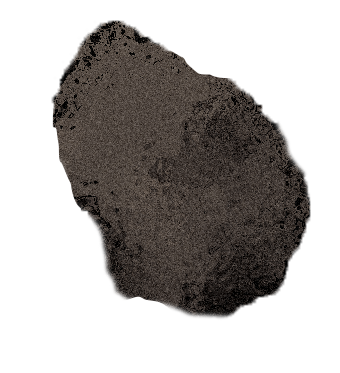
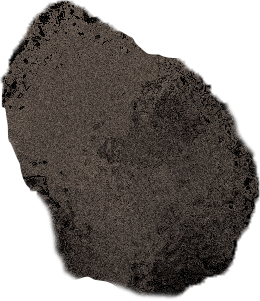
make moss responsive

diff --git a/index.html b/index.html
@@ -18,7 +18,8 @@
     </div>
 
     <div id="about"><span style="margin-left:0px">underground paratext</span><br><br>
-        this site was lovingly handcoded with basic javascript and uses spencer chang's play.html library.
+        this site was lovingly handcoded with basic javascript and uses spencer chang's <a href=''
+            target="_blank">play.html library</a>.
         this is placeholder! kRaYtAhaNy is a symbiotic lichenous species comprised of two poetry friends whose
         collaborative ponderings are infected with the spore-like and sporadic fruiting bodies: mycelial poetics and
         subterranean imaginations which nurture into being webthings, zinethings, and text objects. this is placeholder!
@@ -54,7 +55,7 @@
     let multiplier = 2.9;
 
     // IMAGES AND TEXT
-    let mosses = ["1.png", "2.png", "3.png", "4.png", "5.png", "6.png", "7.png", "8.png", "9.png", "10.png", "11.png", "12.png", "13.png", "14.png", "15.png", "16.png"];
+    let mosses = ["1.png", "2.png", "3.png", "4.png", "5.png", "6.png", "7.png", "8.png", "9.png", "10.png", "11.png", "12.png"];
     let text = `another world there seeping to partake in this here our sediment at times unknowingly there against my outer layers sensorializing the presumed edge my proprioception unquestions to maintain a semblance of know-how in the midst of, well, it all but maybe it smooths out any wrinkles without me even knowing or seeing loneliness with no exact locus, isn’t absence either, some kind of insistence on knowing something else. anyway. The author of milkweed is milkweed, the writer of the pink flower. the soil an inkwell HTML is pronounced hache tee em elle, do not say hittamel hittite clay dictionary how did we get here i’d like to reboot not to update close all windows, choose not to save. file  open  remember this? without a visible marker of distance, this text extends, smoothing over perhaps it’s sporadicity. spore seeds stars diatribing their light across the distance, beautiful, bliss-ridden. meanwhile, a diatom and plankton becoming friends oooh the heart a storm. friends around each with a weight weighing. how to be in some small measure an upward force alongside their straining. adore the typo as an invitation. oh and yes i abhor it when it disrupts my ghosted sheen of rightness a desire for wrongness until it’s, well, here.`;
     let words = text.split(' ');
 
@@ -187,12 +188,17 @@
         let d = Math.floor(Math.random() * 360);
         moss.style.setProperty('rotate', d + 'deg');
         let m = Math.floor(Math.random() * mosses.length);
+
         moss.style.backgroundImage = 'url("moss+rocks/' + mosses[m] + '")';
         return moss;
     }
 
     function makeMoss(x, y) {
         let moss = mossDiv();
+        moss.addEventListener('click', event => {
+            moss.style.setProperty('scale', '50%');
+            console.log("moss clicked");
+        })
         moss.style.left = x + 'px';
         moss.style.top = y + offset + 'px';
         crust.append(moss);

diff --git a/crust.css b/crust.css
@@ -5,7 +5,7 @@
             background-image: url('crust.jpg');
             background-size: 600px;
             background-repeat: repeat;
-            cursor: nw-resize !important;
+            cursor: default !important;
             /* cursor: url("earthworm.png"), auto !important; */
         }
 
@@ -47,7 +47,7 @@
         }
 
         input[type="range"] {
-            cursor: nw-resize;
+            cursor: grab;
             accent-color: yellowgreen !important;
         }
 
@@ -78,7 +78,7 @@
             width: 150px;
             text-align: center;
             opacity: 1;
-            cursor: help;
+            cursor: pointer;
 
 
         }
@@ -182,13 +182,15 @@
             top: 50px;
             margin: 15px;
             z-index: 6;
+            pointer-events: none;
 
         }
 
 
 
+        /* img == rock. this is for rocks */
         img {
-            width: 300px;
+            width: 250px;
             opacity: 1;
             position: absolute;
             cursor: grab;
